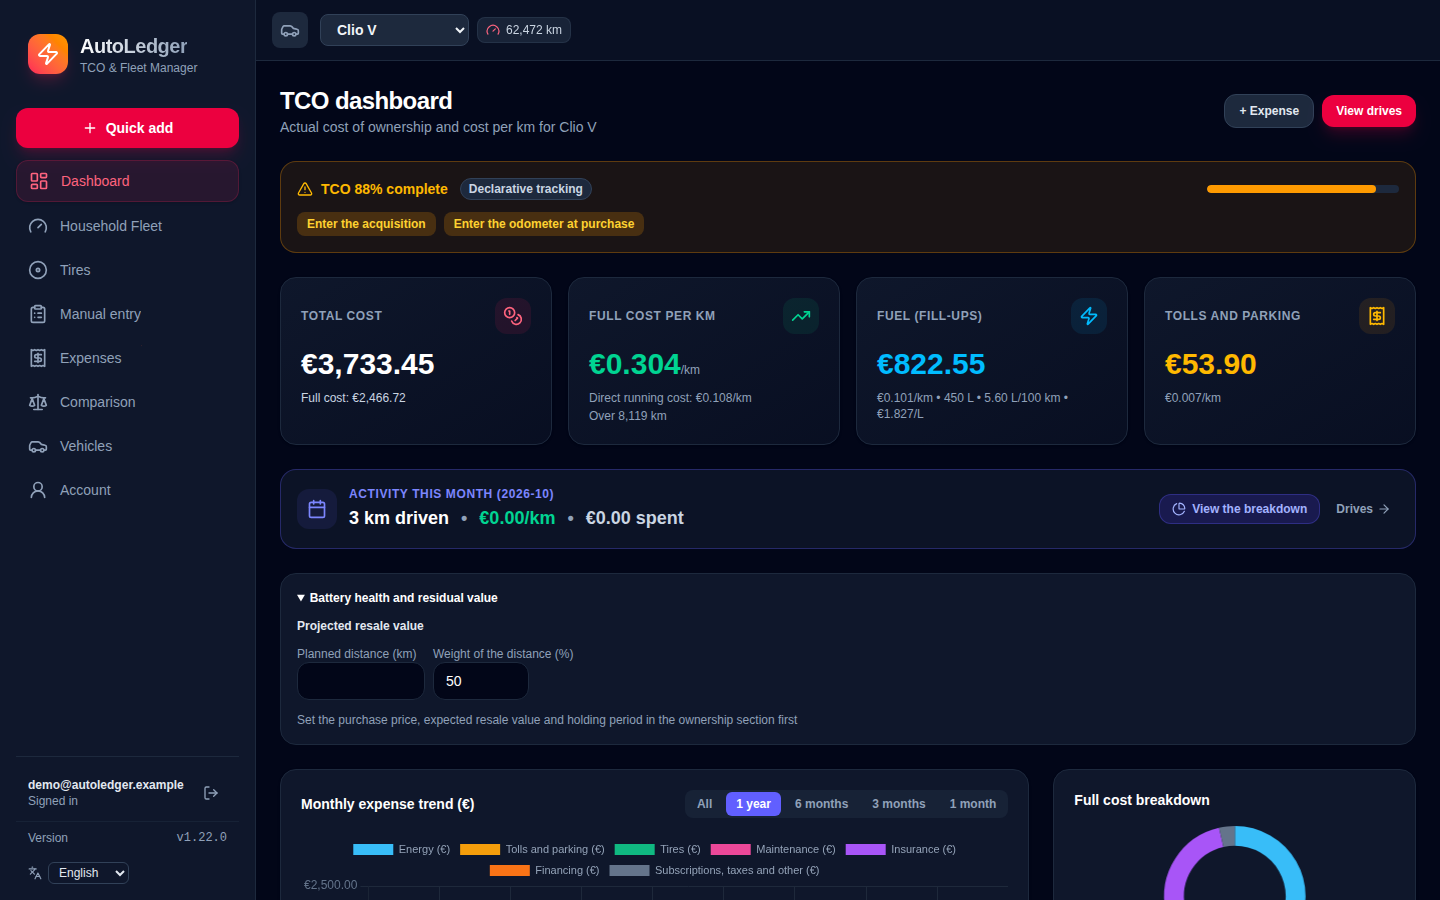
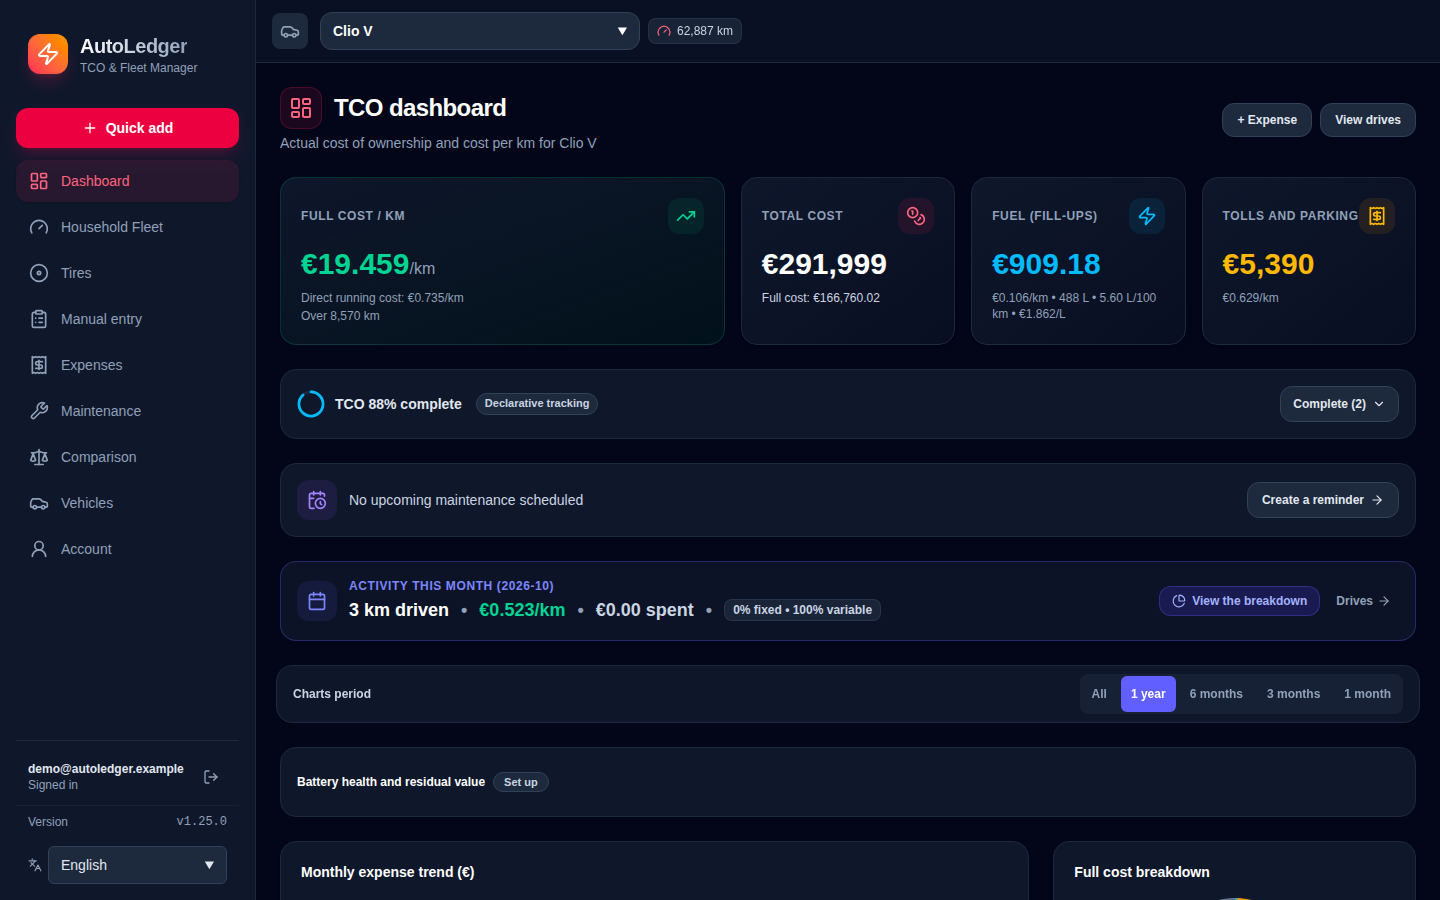
Regrouper le suivi de l'énergie dans une page Énergie (#317)
Efficacité, Recharges et Estimation passent sur /energy ; anciens liens
redirigés, dashboard conservé comme résumé, captures de la doc régénérées.

diff --git a/web/src/views/ExpensesView.vue b/web/src/views/ExpensesView.vue
@@ -13,6 +13,8 @@ import TollsPanel from '@/components/expenses/TollsPanel.vue'
 import MaintenancePanel from '@/components/expenses/MaintenancePanel.vue'
 import RemindersPanel from '@/components/expenses/RemindersPanel.vue'
 import ChargesPanel from '@/components/expenses/ChargesPanel.vue'
+import EnergyEfficiencyPanel from '@/components/dashboard/EnergyEfficiencyPanel.vue'
+import EstimatedEnergyPanel from '@/components/manual/EstimatedEnergyPanel.vue'
 import DocumentsPanel from '@/components/expenses/DocumentsPanel.vue'
 import TollModal from '@/components/expenses/TollModal.vue'
 import MaintenanceModal from '@/components/expenses/MaintenanceModal.vue'
@@ -23,7 +25,7 @@ import CompleteReminderModal from '@/components/expenses/CompleteReminderModal.v
 import WebhookModal from '@/components/expenses/WebhookModal.vue'
 import CSVImportModal from '@/components/CSVImportModal.vue'
 import QualifyChargesModal from '@/components/expenses/QualifyChargesModal.vue'
-import { Receipt, Plus, Wrench, Zap, Paperclip, Eye, Bell, Radio, UploadCloud } from 'lucide-vue-next'
+import { Receipt, Plus, Wrench, Zap, Gauge, Calculator, Paperclip, Eye, Bell, Radio, UploadCloud } from 'lucide-vue-next'
 import type { ReminderPreset } from '@/utils/expenses'
 import { hasReminderSchedule } from '@/utils/expenses'
 import { formatAmount } from '@/currency'
@@ -39,13 +41,17 @@ const vehicleId = computed(() => vehicleStore.activeVehicle?.id ?? '')
 const currentOdometer = computed(() => vehicleStore.activeVehicle?.current_odometer || 0)
 const { previewDoc, loadingDocId, closeDocPreview, viewOrDownloadDocument } = useDocumentPreview(() => vehicleStore.activeVehicle?.id)
 
-type TabType = 'TOLLS' | 'MAINTENANCE' | 'REMINDERS' | 'CHARGES' | 'DOCUMENTS'
+type TabType = 'TOLLS' | 'MAINTENANCE' | 'REMINDERS' | 'CHARGES' | 'DOCUMENTS' | 'EFFICIENCY' | 'ESTIMATE'
 
-// One view, two menu entries: /expenses (tolls, charges, receipts) and /maintenance (maintenance, reminders)
+// One view, three menu entries: /expenses (tolls, receipts), /maintenance (maintenance, reminders)
+// and /energy (efficiency, charges, estimate)
 const isMaintenanceSection = computed(() => route.meta.section === 'maintenance')
-const sectionTabs = computed<TabType[]>(() =>
-  isMaintenanceSection.value ? ['MAINTENANCE', 'REMINDERS'] : ['TOLLS', 'CHARGES', 'DOCUMENTS'],
-)
+const isEnergySection = computed(() => route.meta.section === 'energy')
+const sectionTabs = computed<TabType[]>(() => {
+  if (isMaintenanceSection.value) return ['MAINTENANCE', 'REMINDERS']
+  if (isEnergySection.value) return vehicleStore.canRefuel ? ['EFFICIENCY', 'CHARGES'] : ['EFFICIENCY', 'CHARGES', 'ESTIMATE']
+  return ['TOLLS', 'DOCUMENTS']
+})
 
 function parseTab(raw: unknown): TabType {
   const upper = String(Array.isArray(raw) ? raw[0] : (raw ?? '')).toUpperCase() as TabType
@@ -55,8 +61,8 @@ function parseTab(raw: unknown): TabType {
 const activeTab = ref<TabType>(parseTab(route.query.tab))
 
 // A fuel-only vehicle has no charges: its fill-ups live in the manual tracking page
-watch([() => vehicleStore.canCharge, activeTab], ([charges, tab]) => {
-  if (!charges && tab === 'CHARGES') router.replace('/manual?tab=FUEL')
+watch([() => vehicleStore.canCharge, isEnergySection], ([charges, energy]) => {
+  if (!charges && energy) router.replace('/manual?tab=FUEL')
 }, { immediate: true })
 
 watch(activeTab, (newTab) => {
@@ -65,7 +71,7 @@ watch(activeTab, (newTab) => {
   }
 })
 
-watch([() => route.query.tab, isMaintenanceSection], ([qTab]) => {
+watch([() => route.query.tab, () => route.meta.section, () => vehicleStore.canRefuel], ([qTab]) => {
   const tab = parseTab(qTab)
   if (activeTab.value !== tab) activeTab.value = tab
 })
@@ -401,8 +407,10 @@ async function openWebhookModal() {
   showWebhookModal.value = true
 }
 
-const pageTitle = computed(() => t(isMaintenanceSection.value ? 'expenses.expensesView.maintenanceTitle' : 'expenses.expensesView.expensesTitle'))
-const pageSubtitle = computed(() => t(isMaintenanceSection.value ? 'expenses.expensesView.maintenanceSubtitle' : 'expenses.expensesView.expensesSubtitle'))
+const sectionKey = computed(() => (isMaintenanceSection.value ? 'maintenance' : isEnergySection.value ? 'energy' : 'expenses'))
+const pageTitle = computed(() => t(`expenses.expensesView.${sectionKey.value}Title`))
+const pageSubtitle = computed(() => t(`expenses.expensesView.${sectionKey.value}Subtitle`))
+const pageIcon = computed(() => (isMaintenanceSection.value ? Wrench : isEnergySection.value ? Zap : Receipt))
 
 const tabs = computed<TabItem[]>(() => {
   if (isMaintenanceSection.value) {
@@ -417,16 +425,21 @@ const tabs = computed<TabItem[]>(() => {
       },
     ]
   }
-  const list: TabItem[] = [{ key: 'TOLLS', label: t('expenses.expensesView.tolls'), icon: Receipt }]
-  if (vehicleStore.canCharge) {
-    list.push({
-      key: 'CHARGES',
-      label: t('expenses.expensesView.charges'),
-      icon: Zap,
-      badge: chargesWithoutCost.value > 0 ? chargesWithoutCost.value : undefined,
-      badgeTone: 'warning',
-    })
+  if (isEnergySection.value) {
+    const list: TabItem[] = [
+      { key: 'EFFICIENCY', label: t('expenses.expensesView.efficiency'), icon: Gauge },
+      {
+        key: 'CHARGES',
+        label: t('expenses.expensesView.charges'),
+        icon: Zap,
+        badge: chargesWithoutCost.value > 0 ? chargesWithoutCost.value : undefined,
+        badgeTone: 'warning',
+      },
+    ]
+    if (!vehicleStore.canRefuel) list.push({ key: 'ESTIMATE', label: t('expenses.expensesView.estimate'), icon: Calculator })
+    return list
   }
+  const list: TabItem[] = [{ key: 'TOLLS', label: t('expenses.expensesView.tolls'), icon: Receipt }]
   list.push({
     key: 'DOCUMENTS',
     label: t('expenses.expensesView.receipts'),
@@ -440,7 +453,7 @@ const tabs = computed<TabItem[]>(() => {
 <template>
   <div class="space-y-6">
     <!-- Header -->
-    <PageHeader :title="pageTitle" :icon="isMaintenanceSection ? Wrench : Receipt">
+    <PageHeader :title="pageTitle" :icon="pageIcon">
       {{ pageSubtitle }}
       <template #actions>
       <div v-if="vehicleStore.canEdit" class="flex items-center gap-2">
@@ -572,6 +585,20 @@ const tabs = computed<TabItem[]>(() => {
         {{ $t('pendingCharges.qualifyButton') }}
       </button>
     </div>
+
+    <EnergyEfficiencyPanel
+      v-if="activeTab === 'EFFICIENCY' && vehicleStore.activeVehicle"
+      :vehicle-id="vehicleStore.activeVehicle.id"
+      :grafana-url="vehicleStore.activeVehicle.teslamate_grafana_url"
+      :sync-key="vehicleStore.lastSyncTimestamp"
+      show-empty
+    />
+
+    <EstimatedEnergyPanel
+      v-if="activeTab === 'ESTIMATE' && vehicleStore.activeVehicle"
+      :vehicle="vehicleStore.activeVehicle"
+      :can-edit="vehicleStore.canEdit"
+    />
 
     <ChargesPanel
       v-if="activeTab === 'CHARGES' && vehicleStore.canCharge"

diff --git a/web/src/views/ManualTrackingView.vue b/web/src/views/ManualTrackingView.vue
@@ -5,15 +5,14 @@ import { ClipboardList as PageIcon } from 'lucide-vue-next'
 import { t } from '@/i18n'
 import { ref, computed, watch } from 'vue'
 import { useRoute, useRouter } from 'vue-router'
-import { Gauge, Fuel, Zap, UploadCloud, Download } from 'lucide-vue-next'
+import { Gauge, Fuel, UploadCloud, Download } from 'lucide-vue-next'
 import { useVehicleStore } from '@/stores/vehicle'
 import OdometerReadingsPanel from '@/components/manual/OdometerReadingsPanel.vue'
 import FuelLogsPanel from '@/components/manual/FuelLogsPanel.vue'
 import CSVImportModal from '@/components/CSVImportModal.vue'
 import ExportDataModal from '@/components/ExportDataModal.vue'
-import EstimatedEnergyPanel from '@/components/manual/EstimatedEnergyPanel.vue'
 
-type Tab = 'KM' | 'FUEL' | 'ENERGY'
+type Tab = 'KM' | 'FUEL'
 
 const showImport = ref(false)
 const showExport = ref(false)
@@ -31,7 +30,6 @@ const vehicleStore = useVehicleStore()
 const tabs = computed<TabItem[]>(() => {
   const list: TabItem[] = [{ key: 'KM', label: t('manual.manualTrackingView.mileage'), icon: Gauge }]
   if (vehicleStore.canRefuel) list.push({ key: 'FUEL', label: t('manual.manualTrackingView.energyTab'), icon: Fuel })
-  else list.push({ key: 'ENERGY', label: t('manual.manualTrackingView.energyTab'), icon: Zap })
   return list
 })
 
@@ -62,7 +60,7 @@ function select(tab: Tab) {
 <template>
   <div class="space-y-5">
     <PageHeader :title="$t('manual.manualTrackingView.manualTracking')" :icon="PageIcon">
-      {{ $t('manual.manualTrackingView.subtitle', { what: vehicleStore.canRefuel ? $t('manual.manualTrackingView.fillUps') : $t('manual.manualTrackingView.energy') }) }}{{ vehicleStore.activeVehicle ? ` · ${vehicleStore.activeVehicle.name}` : '' }}{{ $t('manual.manualTrackingView.independent') }}
+      {{ vehicleStore.canRefuel ? $t('manual.manualTrackingView.subtitle', { what: $t('manual.manualTrackingView.fillUps') }) : $t('manual.manualTrackingView.subtitleMileage') }}{{ vehicleStore.activeVehicle ? ` · ${vehicleStore.activeVehicle.name}` : '' }}{{ $t('manual.manualTrackingView.independent') }}
     </PageHeader>
 
     <div v-if="!vehicleStore.activeVehicle" class="bg-slate-900 border border-slate-800 rounded-2xl p-6 text-sm text-slate-400">
@@ -73,7 +71,7 @@ function select(tab: Tab) {
       <div class="flex justify-end">
         <div class="flex items-center gap-2">
           <button
-            v-if="vehicleStore.canEdit && activeTab !== 'ENERGY'"
+            v-if="vehicleStore.canEdit"
             type="button"
             class="tap-text flex items-center gap-1.5 px-3 rounded-xl border border-slate-700 bg-slate-800 hover:bg-slate-700 text-xs font-semibold text-slate-200"
             @click="showImport = true"
@@ -91,7 +89,7 @@ function select(tab: Tab) {
           </button>
         </div>
       </div>
-      <TabBar :model-value="activeTab" :tabs="tabs" :label="$t('manual.manualTrackingView.manualTracking')" id-prefix="manual-tab" @update:model-value="select($event as Tab)" />
+      <TabBar v-if="tabs.length > 1" :model-value="activeTab" :tabs="tabs" :label="$t('manual.manualTrackingView.manualTracking')" id-prefix="manual-tab" @update:model-value="select($event as Tab)" />
 
       <OdometerReadingsPanel v-if="activeTab === 'KM'" :key="reloadKey" :vehicle="vehicleStore.activeVehicle" :can-edit="vehicleStore.canEdit" />
       <FuelLogsPanel
@@ -100,7 +98,6 @@ function select(tab: Tab) {
         :vehicle-id="vehicleStore.activeVehicle.id"
         :can-edit="vehicleStore.canEdit"
       />
-      <EstimatedEnergyPanel v-else-if="activeTab === 'ENERGY'" :vehicle="vehicleStore.activeVehicle" :can-edit="vehicleStore.canEdit" />
       <ExportDataModal v-model:open="showExport" :vehicle-id="vehicleStore.activeVehicle.id" />
       <CSVImportModal
         v-model:open="showImport"

diff --git a/web/src/components/dashboard/EnergyEfficiencyPanel.vue b/web/src/components/dashboard/EnergyEfficiencyPanel.vue
@@ -22,6 +22,9 @@ const props = defineProps<{
   grafanaUrl?: string | null
   // Bumped after a synchronization so the figures follow the imported drives and charges
   syncKey?: number
+  // Dashboard: link to the energy page. Energy page: explain why the panel is empty.
+  showLink?: boolean
+  showEmpty?: boolean
 }>()
 
 const vehicleStore = useVehicleStore()
@@ -175,7 +178,10 @@ onBeforeUnmount(() => {
 </script>
 
 <template>
-  <section v-if="hasData" class="space-y-4 rounded-2xl border border-slate-800 bg-slate-900 p-5 shadow-sm" aria-labelledby="energy-efficiency-title">
+  <section v-if="!hasData && showEmpty" class="rounded-2xl border border-slate-800 bg-slate-900 p-5 text-sm text-slate-400">
+    {{ $t('dashboard.energyEfficiencyPanel.noData') }}
+  </section>
+  <section v-else-if="hasData" class="space-y-4 rounded-2xl border border-slate-800 bg-slate-900 p-5 shadow-sm" aria-labelledby="energy-efficiency-title">
     <div class="flex flex-col justify-between gap-2 sm:flex-row sm:items-center">
       <div>
         <h3 id="energy-efficiency-title" class="flex items-center gap-2 text-sm font-bold text-white">
@@ -184,6 +190,9 @@ onBeforeUnmount(() => {
         </h3>
         <p class="mt-0.5 text-xs text-slate-400">{{ $t('dashboard.energyEfficiencyPanel.whatTheCarUsesAnd') }}</p>
       </div>
+      <router-link v-if="showLink" to="/energy" class="tap-text text-xs font-semibold text-sky-400 underline">
+        {{ $t('dashboard.energyEfficiencyPanel.seeEnergy') }}
+      </router-link>
     </div>
 
     <dl class="grid grid-cols-2 gap-3 lg:grid-cols-4">
@@ -202,7 +211,7 @@ onBeforeUnmount(() => {
         <dd class="mt-1 text-xl font-bold text-white">{{ fmtPercent(stats?.summary.charge_efficiency) }}</dd>
         <p v-if="stats?.summary.charge_efficiency == null" class="mt-0.5 text-xs text-slate-400">
           {{ $t('dashboard.energyEfficiencyPanel.chargingEfficiencyEmpty') }}
-          <router-link to="/expenses?tab=CHARGES" class="font-semibold text-sky-400 underline">{{ $t('dashboard.energyEfficiencyPanel.chargingEfficiencyAction') }}</router-link>
+          <router-link to="/energy?tab=CHARGES" class="font-semibold text-sky-400 underline">{{ $t('dashboard.energyEfficiencyPanel.chargingEfficiencyAction') }}</router-link>
         </p>
         <p v-else class="mt-0.5 hidden text-xs text-slate-400 sm:block">{{ $t('dashboard.energyEfficiencyPanel.energyStoredInTheBattery') }}</p>
       </div>
@@ -215,7 +224,7 @@ onBeforeUnmount(() => {
 
     <p v-if="(stats?.summary.sessions_without_cost ?? 0) > 0" class="rounded-lg border border-warning-500/20 bg-warning-500/10 px-3 py-2 text-xs text-warning-300">
       {{ $t('dashboard.energyEfficiencyPanel.chargeSWithoutAKnown', { unit: distanceUnit(), sessions_without_cost: stats?.summary.sessions_without_cost }) }}
-      <router-link to="/expenses?tab=CHARGES" class="font-semibold underline">{{ $t('dashboard.energyEfficiencyPanel.completeThem') }}</router-link>
+      <router-link to="/energy?tab=CHARGES" class="font-semibold underline">{{ $t('dashboard.energyEfficiencyPanel.completeThem') }}</router-link>
     </p>
 
     <p v-if="hasDerived" class="rounded-lg border border-info-500/20 bg-info-500/10 px-3 py-2 text-xs text-info-300">

diff --git a/web/src/router/index.ts b/web/src/router/index.ts
@@ -48,6 +48,10 @@ const router = createRouter({
       name: 'manual',
       component: ManualTrackingView,
       meta: { requiresAuth: true },
+      // The energy estimate of electric vehicles lives on the energy page
+      beforeEnter: (to) => {
+        if (String(to.query.tab ?? '').toUpperCase() === 'ENERGY') return { path: '/energy', query: { tab: 'ESTIMATE' }, replace: true }
+      },
     },
     {
       path: '/comparison',
@@ -70,6 +74,7 @@ const router = createRouter({
       beforeEnter: (to) => {
         const tab = String(to.query.tab ?? '').toUpperCase()
         if (tab === 'MAINTENANCE' || tab === 'REMINDERS') return { name: 'maintenance', query: to.query, replace: true }
+        if (tab === 'CHARGES') return { name: 'energy', query: to.query, replace: true }
       },
     },
     {
@@ -79,8 +84,15 @@ const router = createRouter({
       meta: { requiresAuth: true, section: 'maintenance' },
       beforeEnter: (to) => {
         const tab = String(to.query.tab ?? '').toUpperCase()
-        if (['TOLLS', 'CHARGES', 'DOCUMENTS'].includes(tab)) return { name: 'expenses', query: to.query, replace: true }
+        if (['TOLLS', 'DOCUMENTS'].includes(tab)) return { name: 'expenses', query: to.query, replace: true }
+        if (['CHARGES', 'EFFICIENCY', 'ESTIMATE'].includes(tab)) return { name: 'energy', query: to.query, replace: true }
       },
+    },
+    {
+      path: '/energy',
+      name: 'energy',
+      component: ExpensesView,
+      meta: { requiresAuth: true, section: 'energy' },
     },
     {
       path: '/vehicles',

diff --git a/web/src/components/Navigation.vue b/web/src/components/Navigation.vue
@@ -39,6 +39,7 @@ const allNavItems = [
   { name: 'carpools', labelKey: 'shell.nav.carpools', path: '/carpools', icon: Users },
   { name: 'tires', labelKey: 'shell.nav.tires', path: '/tires', icon: Disc },
   { name: 'manual', labelKey: 'shell.nav.manual', path: '/manual', icon: ClipboardList },
+  { name: 'energy', labelKey: 'shell.nav.energy', path: '/energy', icon: Zap },
   { name: 'expenses', labelKey: 'shell.nav.expenses', path: '/expenses', icon: Receipt },
   { name: 'maintenance', labelKey: 'shell.nav.maintenance', path: '/maintenance', icon: Wrench },
   { name: 'comparison', labelKey: 'shell.nav.comparison', path: '/comparison', icon: Scale },
@@ -51,6 +52,7 @@ const navItems = computed(() =>
   allNavItems.filter((item) => {
     if (item.name === 'drives') return vehicleStore.canCharge
     if (item.name === 'carpools') return vehicleStore.canCharge
+    if (item.name === 'energy') return vehicleStore.canCharge
     return true
   }),
 )

diff --git a/web/src/components/dashboard/DataQualityCard.vue b/web/src/components/dashboard/DataQualityCard.vue
@@ -49,7 +49,7 @@ const actions = computed<Action[]>(() => {
   const c = props.tco?.completeness
   if (!c) return []
   const list: (Action & { show: boolean })[] = [
-    { key: 'charges', to: '/expenses?tab=CHARGES', label: t('dashboard.dataQualityCard.completeTheCharges'), show: c.charges_without_cost > 0 },
+    { key: 'charges', to: '/energy?tab=CHARGES', label: t('dashboard.dataQualityCard.completeTheCharges'), show: c.charges_without_cost > 0 },
     { key: 'drives', to: '/drives', label: t('dashboard.dataQualityCard.qualifyTheDrives'), show: c.unqualified_drives > 0 },
     { key: 'insurance', to: '/maintenance', label: t('dashboard.dataQualityCard.enterTheInsurance'), show: !!c.insurance_missing },
     { key: 'acquisition', to: '/vehicles', label: t('dashboard.dataQualityCard.enterTheAcquisition'), show: !!c.acquisition_missing },

diff --git a/web/src/components/manual/EstimatedEnergyPanel.vue b/web/src/components/manual/EstimatedEnergyPanel.vue
@@ -184,7 +184,7 @@ onMounted(() => {
       <button
         type="button"
         class="shrink-0 px-3 py-2 bg-slate-800 hover:bg-slate-700 text-slate-200 border border-slate-700 font-semibold rounded-xl"
-        @click="router.push('/expenses?tab=CHARGES')"
+        @click="router.push('/energy?tab=CHARGES')"
       >
         {{ $t('manual.estimatedEnergyPanel.chargesOutsideTeslamate') }}
       </button>

diff --git a/web/src/views/DashboardView.vue b/web/src/views/DashboardView.vue
@@ -169,6 +169,7 @@ onMounted(() => {
         :vehicle-id="vehicleStore.activeVehicle.id"
         :grafana-url="vehicleStore.activeVehicle.teslamate_grafana_url"
         :sync-key="vehicleStore.lastSyncTimestamp"
+        show-link
       />
 
       <ResidualValuePanel
